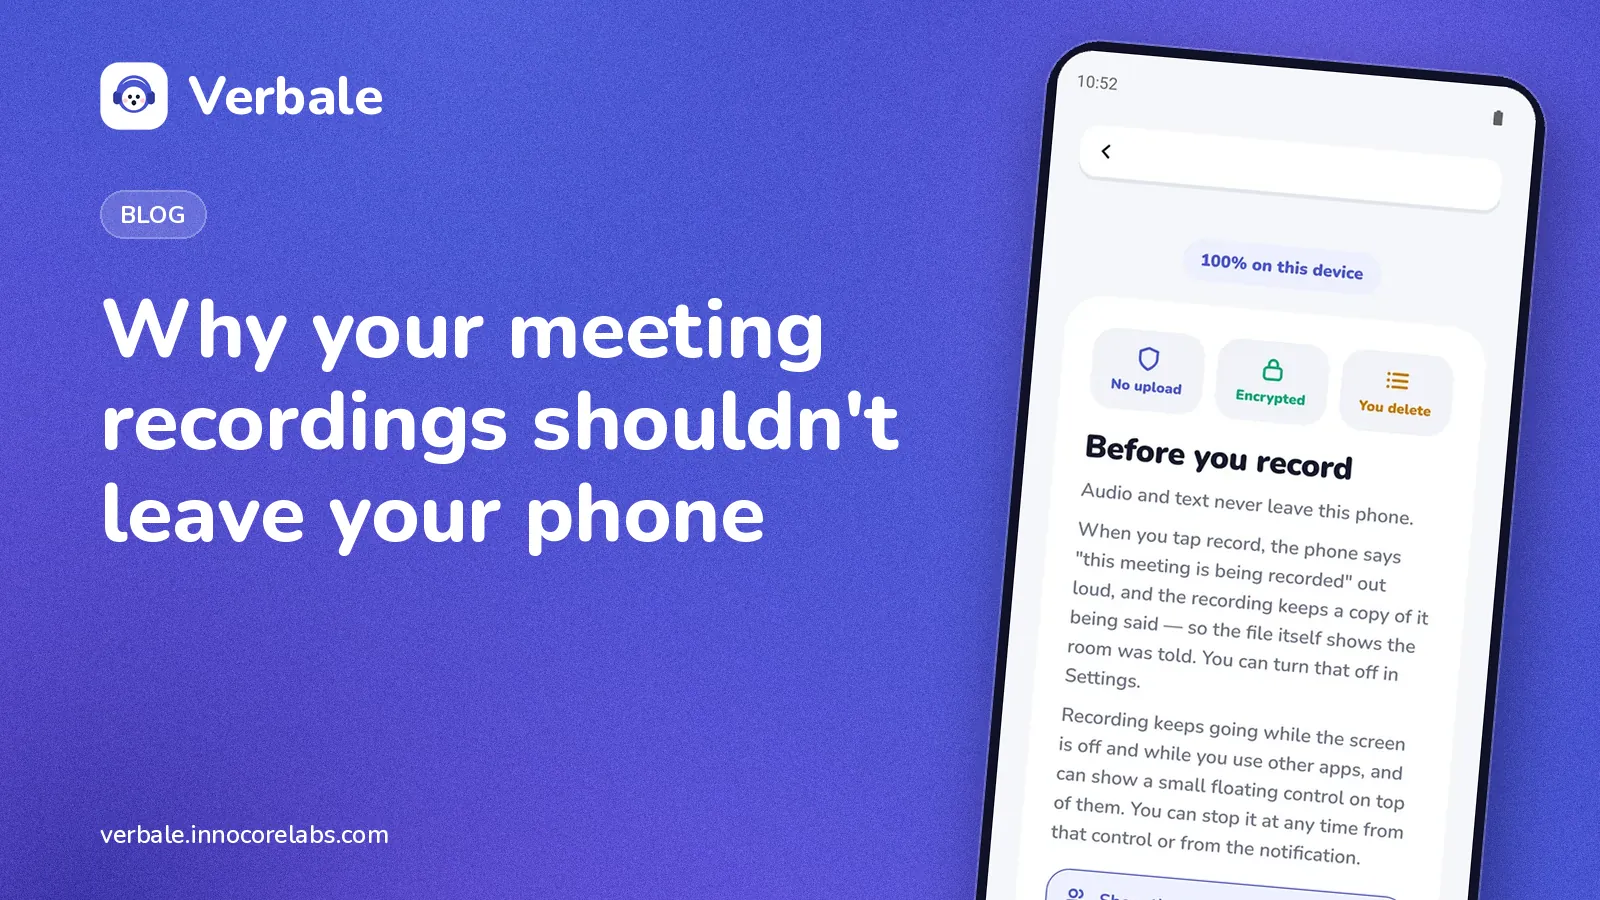
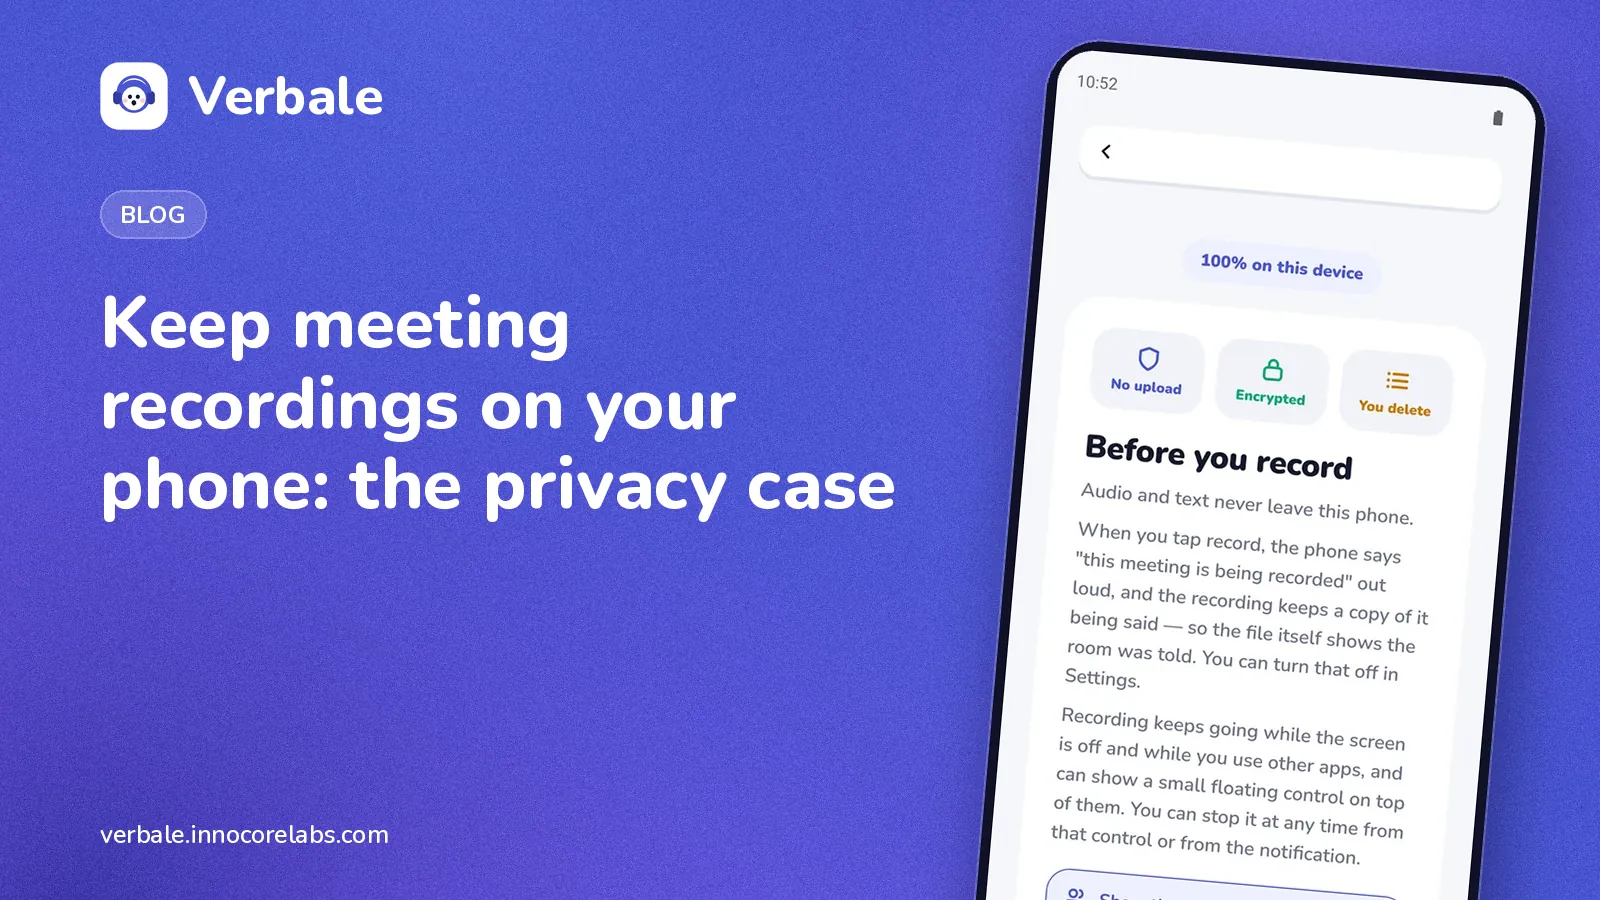
content(site): editorial and SEO revisions to the first five posts; stricter content-bar test

Changed region(s): [[0.0625, 0.3111, 0.5625, 0.6222]]

diff --git a/server/tests/test_blog.py b/server/tests/test_blog.py
@@ -343,19 +343,31 @@ def test_real_posts_meet_the_content_bar():
     import re
     from pathlib import Path
 
-    posts = sorted((Path(blog.__file__).parent / "content" / "blog").glob("*.md"))
+    root = Path(blog.__file__).parent
+    posts = sorted((root / "content" / "blog").glob("*.md"))
     assert len(posts) >= 5
+    slugs = {p.stem for p in posts}
+    banned = re.compile(r"\b(" + "|".join(re.escape(w) for w in BANNED_WORDS) + r")\b", re.I)
     for path in posts:
         raw = path.read_text(encoding="utf-8")
         meta, body = blog._split_front_matter(raw, path.name)
         where = path.name
-        assert len(meta["description"]) <= 160, where
-        assert len(re.findall(r"^## ", body, re.M)) >= 3, where
-        assert re.search(r"^## FAQ\s*$", body, re.M), where
-        assert "/static/shots/" in body, where
-        assert len(set(re.findall(r"\]\(/blog/[\w-]+\)", body))) >= 2, where
-        words = len(re.findall(r"\S+", body))
-        assert 900 <= words <= 1600, f"{where}: {words} words"
-        low = raw.lower()
-        for bad in BANNED_WORDS:
-            assert bad not in low, f"{where}: banned word {bad!r}"
+        assert len(meta["title"]) <= 65, where
+        assert 70 <= len(meta["description"]) <= 155, where
+        prose = re.sub(r"^```.*?^```", "", body, flags=re.M | re.S)
+        assert len(re.findall(r"^## ", prose, re.M)) >= 3, where
+        faq = re.split(r"^## FAQ\s*$", prose, flags=re.M)
+        assert len(faq) == 2, f"{where}: needs exactly one '## FAQ' h2"
+        assert len(re.findall(r"^### ", faq[1], re.M)) >= 3, where
+        shots = re.findall(r"/static/shots/([\w-]+\.webp)", body)
+        assert shots, where
+        for shot in shots:
+            assert (root / "static" / "shots" / shot).exists(), f"{where}: {shot}"
+        links = set(re.findall(r"\]\(/blog/([\w-]+)\)", body))
+        assert len(links) >= 2, where
+        assert links <= slugs, f"{where}: dangling link {links - slugs}"
+        assert len(re.findall(r"\S+", body)) >= 600, where
+        assert "\u2014" not in raw, f"{where}: em dash"
+        for text in (body, meta["title"], meta["description"]):
+            m = banned.search(text)
+            assert not m, f"{where}: banned word {m.group(0)!r}"

diff --git a/server/app/content/blog/minutes-of-meeting-template.md b/server/app/content/blog/minutes-of-meeting-template.md
@@ -1,13 +1,13 @@
 ---
-title: Minutes of meeting (MOM): how to write them, free template
-description: What minutes of meeting are, what to include, and a free copy-paste MOM template with a filled example. Plus how to draft them from a recording.
+title: Minutes of meeting (MOM) template: free, with an example
+description: What meeting minutes (MOM) are, what to include, and a free copy-paste template with a filled example. Plus how to draft them from a recording.
 date: 2026-10-24
 tags: Templates, Meetings, Guides
 cover: mom-template
-cover_alt: Brand gradient cover titled "Minutes of meeting (MOM): how to write them, free template" with a phone showing the minutes screen of a client call.
+cover_alt: Brand gradient cover titled "Minutes of meeting (MOM) template: free, with an example" with a phone showing the minutes screen of a client call.
 shot: mom
 ---
-Minutes of meeting (MOM) are a short, factual written record of what was discussed, what was decided and who has to do what by when. Good minutes fit on one page, are sent within a day, and let someone who wasn't there understand the outcome without asking a single question. Below is a free template you can copy, a filled example, and the mistakes that make most minutes useless.
+Minutes of meeting (MOM) are a short, factual written record of what was discussed, what was decided and who has to do what by when. Good meeting minutes fit on one page, are sent within a day, and let someone who wasn't there understand the outcome without asking a single question. Below is a free template you can copy, a filled example, and the mistakes that make most minutes useless.
 
 ## What minutes of meeting are for
 
@@ -19,7 +19,7 @@ People often call them MOM, especially in Indian business English, and the purpo
 
 If your minutes answer those, they have done their job. Everything else is optional.
 
-## What to include
+## What to include in minutes of a meeting
 
 **The basics.** Meeting title, date, time, place or call link, and who attended. Note who sent apologies. This is the "who was in the room" record, which matters later if anyone disputes what was agreed.
 
@@ -35,9 +35,9 @@ If your minutes answer those, they have done their job. Everything else is optio
 
 **Next meeting.** Date, if there is one.
 
-## A free template to copy
+## Minutes of meeting template (copy and paste)
 
-Copy this into any notes app. It is Markdown, so it also pastes cleanly into most documents.
+This version is written in Markdown. The `#`, `**` and `|` marks turn into headings, bold text and a table in notes apps that support Markdown. In Word or an email they just show as symbols, so delete them or use the plain-text version below.
 
 ```markdown
 # Meeting minutes: [Title]
@@ -73,9 +73,42 @@ Copy this into any notes app. It is Markdown, so it also pastes cleanly into mos
 [Date, time, and what it will cover]
 ```
 
-## A filled example
+**Plain-text version**, for Word, email or a chat message:
 
-Here is the same template for a short client call.
+```
+MEETING MINUTES: [Title]
+Date: [DD Month YYYY]
+Time: [start] to [end]
+Place / link: [location or call link]
+Attendees: [names]
+Apologies: [names, or "none"]
+Minutes by: [name]
+
+PURPOSE
+[One line: why we met.]
+
+DISCUSSION
+- [Topic 1: key points]
+- [Topic 2: key points]
+
+DECISIONS
+1. [Decision, as a full sentence]
+2. [Decision]
+
+ACTION ITEMS (owner - action - due)
+- [Name] - [What they will do] - [Date]
+- [Name] - [What they will do] - [Date]
+
+OPEN QUESTIONS
+- [Question] (who will find out: [name])
+
+NEXT MEETING
+[Date, time, and what it will cover]
+```
+
+## Minutes of meeting example
+
+The same template, filled in for a short client call.
 
 ```markdown
 # Meeting minutes: Phased rollout call
@@ -107,7 +140,7 @@ Agree how the new version reaches the client's users.
 | Dan | Book a room for the demo recording | Monday |
 
 ## Open questions
-- Why does the licence server return errors during refresh? (Rahul to investigate)
+- Which user groups go into the first 10%? (Asha to confirm by Wednesday)
 
 ## Next meeting
 Monday, to record the demo.
@@ -131,7 +164,7 @@ Monday, to record the demo.
 
 Writing minutes by hand means you spend the meeting half-listening and half-typing. An alternative is to record, then draft from the recording and edit.
 
-[Verbale](/) records English meetings and writes the transcript, speakers and minutes on the phone, with nothing uploaded. Decisions, action items and open questions each link back to the moment they were said, so you can tap one and hear the original words before you trust it. Pro writes the minutes in plain English, shaped to the meeting type: a stand-up reads differently from an interview.
+[Verbale](/) can draft these for you, on the phone. Decisions, action items and open questions each link back to the moment they were said, so you can tap one and hear the original words before you trust it. Pro writes the minutes in plain English, shaped to the meeting type: a stand-up reads differently from an interview.
 
 ![Verbale's minutes screen for a client call, with sections for what the client asked for, what was committed to, risks and open points, and next steps](/static/shots/mom.webp)
 

diff --git a/server/app/content/blog/offline-meeting-notes-android.md b/server/app/content/blog/offline-meeting-notes-android.md
@@ -1,10 +1,10 @@
 ---
-title: Meeting notes on Android without internet: how to do it
-description: You can take full meeting notes on Android with no signal, if the transcribing happens on the phone. Here is what works offline, what doesn't, and how.
+title: Offline meeting notes on Android: no internet needed
+description: Offline meeting notes on Android work when transcription runs on the phone. What works with no signal, what doesn't, and a step-by-step way to do it.
 date: 2026-10-24
 tags: Guides, Android
 cover: offline-meeting-notes
-cover_alt: Brand gradient cover titled "Meeting notes on Android without internet" with a phone showing the summary screen of a finished meeting.
+cover_alt: Brand gradient cover titled "Offline meeting notes on Android: no internet needed" with a phone showing the summary screen of a finished meeting.
 shot: summary
 ---
 Yes, you can take meeting notes on an Android phone with no internet at all, but only if the app that writes the notes runs on the phone itself. Most meeting apps send your audio to a server and wait for text to come back, so they stop working the moment your signal does. An on-device app records, transcribes and writes the minutes locally, which means a basement boardroom, a train or a site visit in the countryside makes no difference.
@@ -28,7 +28,7 @@ This guide covers what actually works offline, what doesn't, and a step-by-step 
 - Downloading the speech and language models the first time. Apps that run on the phone have to get their models from somewhere, once.
 - Anything that depends on a cloud service by design: live captions streamed from a server, or a bot that joins a call.
 
-The honest summary: offline note-taking is a property of where the processing happens, not of the app's marketing. If the transcript only appears after an upload, it is not offline, however good the recorder is.
+In short: offline note-taking is a property of where the processing happens, not of the app's marketing. If the transcript only appears after an upload, it is not offline, however good the recorder is.
 
 ## Step by step: offline notes with Verbale
 
@@ -45,7 +45,7 @@ The honest summary: offline note-taking is a property of where the processing ha
 
 *A finished meeting: the summary on top, with counts of actions, decisions and open questions underneath (the written summary is part of Pro; the transcript, decisions and actions are free).*
 
-For a closer look at the flow, see [how it works](/#how).
+The full flow is on the [Verbale home page](/#how).
 
 ## Tips for good offline notes
 
@@ -59,7 +59,7 @@ For a closer look at the flow, see [how it works](/#how).
 
 **Write your own two lines at the end.** Even good machine notes benefit from a human adding what was meant rather than said.
 
-## Honest limits
+## Limits of offline meeting notes on Android
 
 - **English only.** Verbale transcribes meetings held in English.
 - **Android only, and 64-bit phones.** Some Pro features need 4 GB of memory; the app checks before it downloads or sells you anything.
@@ -76,12 +76,12 @@ Yes, with an app whose speech-to-text runs on the phone. Recording alone never n
 
 ### Does Android have a built-in way to transcribe meetings offline?
 
-Android phones include a basic voice recorder and voice typing, and some models offer more. Those tools tend to be built for short dictation rather than multi-speaker meetings, so you often get a block of text with no speaker labels and no action items. For meetings, a dedicated on-device app is a better fit.
+Many Android phones include a basic voice recorder and voice typing. Those tools are often built for short dictation rather than multi-speaker meetings, so you may get a block of text with no speaker labels and no action items. For meetings, a dedicated on-device app is a better fit.
 
 ### Is offline transcription less accurate than cloud transcription?
 
-It can be, in some situations, particularly with heavy accents or a noisy room. Quality depends mostly on the audio you give it. Verbale's Pro plan adds a larger transcriber aimed at accents and bad rooms. The [honest comparison](/blog/on-device-vs-cloud-transcription) goes through where each approach wins.
+Sometimes. On clear audio the difference is small; with heavy accents or a noisy room, large cloud models can do better. Verbale's Pro plan adds a larger transcriber aimed at accents and bad rooms. The [on-device versus cloud comparison](/blog/on-device-vs-cloud-transcription) goes through where each approach wins.
 
 ### What do I still need internet for?
 
-A one-time model download, the subscription check if you are on Pro, and sharing the notes afterwards. Opt-in crash reports are the only other traffic; they are sent by Google's crash reporter and never include meeting content.
+A one-time model download, the subscription check if you are on Pro, and sharing the notes afterwards. What the app sends, and what it never does, is set out in [why meeting notes should stay on your phone](/blog/why-meeting-notes-should-stay-on-your-phone).

diff --git a/server/app/content/blog/why-meeting-notes-should-stay-on-your-phone.md b/server/app/content/blog/why-meeting-notes-should-stay-on-your-phone.md
@@ -1,13 +1,13 @@
 ---
-title: Why your meeting recordings shouldn't leave your phone
-description: Cloud meeting assistants upload your audio to process it. Here is what that risks for client, HR, legal and health talks, and how on-device notes avoid it.
+title: Keep meeting recordings on your phone: the privacy case
+description: Cloud meeting assistants upload your audio to process it. What that risks for client, HR, legal and health talks, and how on-device notes avoid it.
 date: 2026-10-24
 tags: Privacy, Meetings
 cover: meeting-privacy
-cover_alt: Brand gradient cover titled "Why your meeting recordings shouldn't leave your phone" with a phone showing the privacy screen: No upload, Encrypted, You delete.
+cover_alt: Brand gradient cover titled "Keep meeting recordings on your phone: the privacy case" with a phone showing the privacy screen: No upload, Encrypted, You delete.
 shot: privacy
 ---
-Your meeting recordings shouldn't leave your phone because a recording is the most complete record of what was said, and once it is on someone else's server you are relying on their policies, their security and their staff rather than on your own control. For a casual team stand-up that may be an acceptable trade. For a client negotiation, a disciplinary conversation, a legal briefing or a health discussion, it often isn't.
+Your meeting recordings shouldn't leave your phone because a recording is the most complete record of what was said. Once it sits on someone else's server, you depend on their policies, their security and their staff. That may be fine for a team stand-up. For a client negotiation, an HR case, a legal briefing or a health conversation, it often isn't.
 
 The alternative is simple to describe: do the transcribing and the note-writing on the phone, so there is nothing to upload in the first place.
 
@@ -24,7 +24,7 @@ That is not sinister. It is how the technology was built when phones couldn't do
 
 None of that applies to every product. The point is that you have to check, for each one.
 
-## Where it matters most
+## Which meetings are too sensitive for a cloud note-taker?
 
 **Client confidentiality.** Consultants, agencies and freelancers hear things clients haven't told the market. Many contracts restrict sharing that information with third parties. Uploading the recording is arguably exactly that.
 
@@ -36,7 +36,7 @@ None of that applies to every product. The point is that you have to check, for 
 
 **Early-stage business.** Pricing, fundraising and product plans are the kind of thing you'd rather not have stored elsewhere.
 
-## What on-device changes
+## How does on-device processing keep a meeting private?
 
 When the model runs on your phone, the sentence "we never see your audio" stops being a policy and becomes a fact about the architecture. There is no server copy to protect, retain, subpoena or leak, because none was made.
 
@@ -48,16 +48,16 @@ When the model runs on your phone, the sentence "we never see your audio" stops 
 
 On-device has trade-offs, and we set them out in [on-device versus cloud transcription](/blog/on-device-vs-cloud-transcription): processing takes longer on a phone, and a very noisy room can be harder. We would rather you know that now.
 
-## How to verify a privacy claim
+## How to check whether a meeting app really keeps audio private
 
-A promise is cheap. Here is how to test one, for any app:
+A promise is cheap. You can test one, for any app:
 
 1. **Read what it says it sends.** Look for plain statements about audio and transcripts, not just "we take privacy seriously".
 2. **Try airplane mode.** Record a short meeting with the radios off. If the notes still appear, the processing is local. If it waits for a connection, it isn't.
-3. **Look for an inventory of network calls.** Verbale has a screen that counts every network call the app itself makes: the one-time model download and the subscription check. Crash reports, if you switch them on, are sent by Google's crash reporter and carry no meeting content; the screen says plainly that it can't count those.
+3. **Look for an inventory of network calls.** Verbale has a screen that counts every network call the app itself makes: the one-time model download and the subscription check. The FAQ below covers the one thing it cannot count.
 4. **Check the account question.** An app that needs no account has fewer places to attach your data. The free plan needs none.
 
-## Be fair to everyone in the room
+## Ask everyone in the room first
 
 Keeping a recording on your phone does not remove the need for consent. Recording-consent laws vary by country and state, so ask everyone before you record, and say what the recording is for. The [guide to recording a meeting on your phone](/blog/how-to-record-a-meeting-on-your-phone) has wording that works.
 

diff --git a/server/app/content/blog/on-device-vs-cloud-transcription.md b/server/app/content/blog/on-device-vs-cloud-transcription.md
@@ -1,6 +1,6 @@
 ---
 title: On-device vs cloud transcription: the honest trade-offs
-description: On-device or cloud transcription? A fair comparison on privacy, signal, speed, accuracy, battery, cost and accounts, and when cloud is the better choice.
+description: On-device or cloud transcription? Compare privacy, signal, speed, accuracy, battery, cost and accounts, and when cloud is the better choice.
 date: 2026-10-24
 tags: Privacy, Guides
 cover: on-device-vs-cloud
@@ -19,7 +19,7 @@ We make an on-device app, so we have a bias. This article tries to set it aside 
 
 ## The comparison
 
-| | On-device | Cloud |
+| Factor | On-device | Cloud |
 |---|---|---|
 | Privacy | Audio stays on the phone | Audio is uploaded and processed on someone else's servers |
 | Works without signal | Yes, after a one-time model download | No, it needs a connection to process |
@@ -44,8 +44,6 @@ Treat these as tendencies, not guarantees. Individual products vary, and both te
 **Predictable cost.** The vendor isn't paying for a server every minute you record, which is why a free plan can be genuinely free.
 
 ## Where cloud wins
-
-Being fair means saying this plainly.
 
 **Speed.** A server can transcribe an hour of audio far faster than a phone. If you need the text within minutes of finishing, cloud has the edge.
 
@@ -75,7 +73,7 @@ Often the answer is both: on-device for sensitive meetings, cloud for the routin
 
 ## What Verbale does
 
-[Verbale](/) is the on-device option. It records English meetings and writes the transcript, speakers and minutes entirely on the phone. Nothing is uploaded, and the app has a screen that counts every network call the app itself makes. Long meetings process in the background and it notifies you when notes are ready. It takes time, and we say so. The [how it works](/#how) section shows the flow.
+[Verbale](/) is an on-device option, built for English meetings on Android. It has a screen that counts every network call the app itself makes, and long meetings process in the background with a notification when the notes are ready. That takes time, which is the price of keeping it local. The [walkthrough on the home page](/#how) shows the flow.
 
 If you are drafting minutes from either kind of transcript, the [minutes of meeting template](/blog/minutes-of-meeting-template) will help.
 
@@ -95,4 +93,4 @@ It does while processing, because the phone is doing work a server would otherwi
 
 ### Can on-device transcription work offline?
 
-Yes. After a one-time model download, the whole job runs on the phone with no signal.
+Yes. The steps are in [offline meeting notes on Android](/blog/offline-meeting-notes-android).

diff --git a/server/app/content/blog/how-to-record-a-meeting-on-your-phone.md b/server/app/content/blog/how-to-record-a-meeting-on-your-phone.md
@@ -25,8 +25,8 @@ Most poor transcripts come from poor placement, not poor software.
 
 - **Put it in the middle of the table, microphone side up.** Phones usually have a microphone at the bottom edge; don't cover it with a notebook or a hand.
 - **Keep it close to the people talking.** Distance is the biggest enemy. A phone two metres away from the quietest speaker will lose them.
-- **Stop it sitting on something that vibrates.** A laptop that is typing or a table you drum on shows up as noise. A folded napkin or a notebook underneath helps.
-- **Face the room, not the wall.** In a larger group, a phone near the middle beats one in a corner.
+- **Keep it off anything that vibrates.** A laptop being typed on or a table you drum on shows up as noise. A folded napkin or a notebook underneath helps.
+- **Keep it clear of walls and corners, where voices bounce back.** In a larger group, a phone near the middle beats one at the edge.
 - **Turn off notifications and set Do Not Disturb.** A buzz can drown a sentence.
 
 ## Handle the room
@@ -69,7 +69,7 @@ Do these within a day.
 4. **Send it out.** Minutes sent the same day get read and acted on.
 5. **Delete what you no longer need.** The fewer copies of a recording, the better, especially for sensitive meetings.
 
-If you want everything to stay on the device while you do this, read [why meeting notes should stay on your phone](/blog/why-meeting-notes-should-stay-on-your-phone). [Verbale](/) is built for this: English only, Android only, with the transcript, speakers and minutes written on the phone and nothing uploaded. The free plan covers 5 meetings a month of up to an hour each. See [how it works](/#how).
+If you want everything to stay on the device while you do this, read [why meeting notes should stay on your phone](/blog/why-meeting-notes-should-stay-on-your-phone). The advice above applies to any phone; [Verbale](/) itself is English only and Android only. Its free plan covers 5 meetings a month of up to an hour each, and the [home page](/#how) shows how it fits together.
 
 ## FAQ
 
@@ -87,4 +87,4 @@ Recording is fairly light. Turning a long recording into notes on the phone is h
 
 ### Can I keep recording if I switch apps or lock the screen?
 
-That depends on the app. Verbale keeps recording with the screen off, in other apps, and in a small floating window. Test whichever app you use before an important meeting.
+That depends on the app, so test whichever one you use before an important meeting. The section on keeping it recording says what to check.
